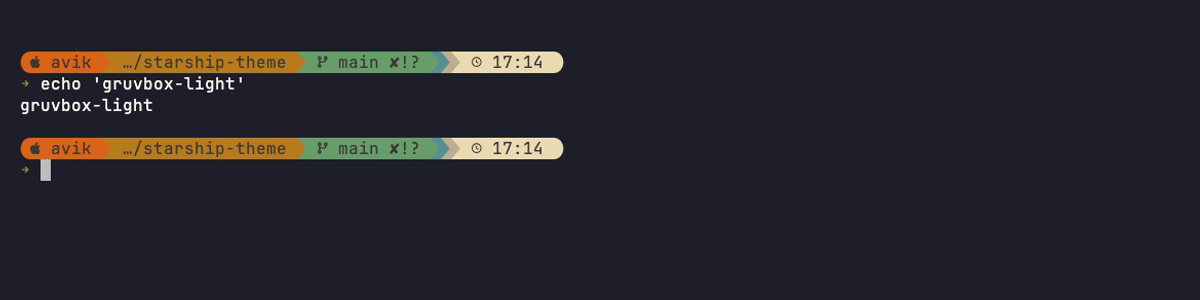
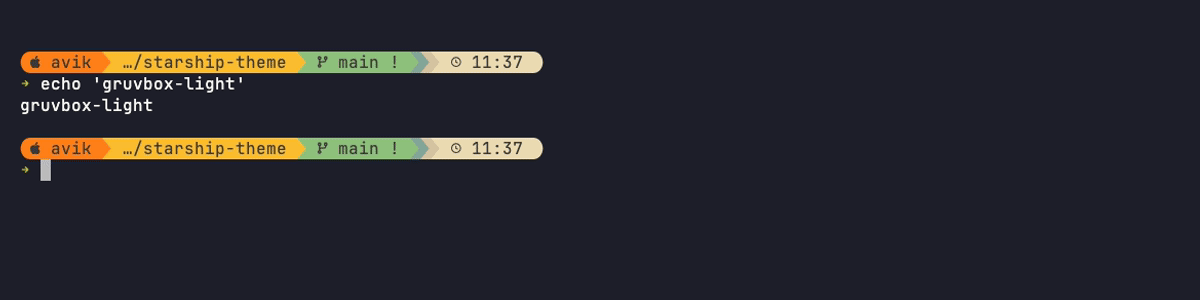
fix(gruvbox-light): use gruvbox's bright accent set for light chips
The light variant had gruvbox-DARK's accents, so ensure_contrast lifted them
into muddy mid-tones (blue #458588 -> #538f92, green #79740e -> #8d8933) and
the prompt glyph ended up a murky olive. A dark-text/light-chip theme needs the
bright accents to begin with, so they now pass contrast untouched.

Also make verify.py self-provision its /tmp fixture dirs -- wiping them during
cleanup turned the suite into a FileNotFoundError instead of a real signal.

Changed region(s): [[0.0, 0.15, 0.4933, 0.27], [0.0, 0.45, 0.4933, 0.54]]

diff --git a/tools/verify.py b/tools/verify.py
@@ -33,6 +33,35 @@ SCEN = {
 }
 
 
+def ensure_scenarios():
+    """Provision the fixture directories this verifier renders against.
+
+    Self-provisioning on purpose: relying on hand-made dirs under /tmp means a
+    routine cleanup silently breaks the suite with a FileNotFoundError instead
+    of a real failure.
+    """
+    def git(*args, cwd):
+        subprocess.run(["git", *args], cwd=cwd, capture_output=True)
+
+    for d in SCEN.values():
+        os.makedirs(d, exist_ok=True)
+
+    for key in ("dirty", "clean"):
+        d = SCEN[key]
+        if not os.path.isdir(os.path.join(d, ".git")):
+            git("init", "-q", cwd=d)
+            git("-c", "user.email=t@t", "-c", "user.name=t",
+                "commit", "--allow-empty", "-m", "init", "-q", cwd=d)
+
+    # `dirty` needs one untracked file so git_status has something to render;
+    # `clean` must stay pristine so git_status contributes nothing.
+    dirty_probe = os.path.join(SCEN["dirty"], "modified.txt")
+    if not os.path.exists(dirty_probe):
+        open(dirty_probe, "w").close()
+
+    open(os.path.join(SCEN["pyproj"], "main.py"), "w").close()
+
+
 def rgb(hexstr):
     h = hexstr.lstrip("#")
     return "%d;%d;%d" % (int(h[0:2], 16), int(h[2:4], 16), int(h[4:6], 16))
@@ -108,6 +137,7 @@ def apple_in_path_chip(out, color_path):
 
 
 def main():
+    ensure_scenarios()
     themes = sorted(f for f in os.listdir(os.path.join(ROOT, "themes"))
                     if f.endswith(".toml"))
     failures = []

diff --git a/tools/generate_variations.py b/tools/generate_variations.py
@@ -162,10 +162,14 @@ GRUVBOX_OVERRIDES = {
         "color_yellow": "#d8a657",
     },
     "gruvbox-light": {
-        "color_fg0": "#3c3836", "color_bg1": "#ebdbb2", "color_bg3": "#bdae93",
-        "color_blue": "#458588", "color_aqua": "#689d6a", "color_green": "#79740e",
-        "color_orange": "#d65d0e", "color_purple": "#b16286", "color_red": "#9d0006",
-        "color_yellow": "#b57614",
+        # Light chips + dark text, so the accents must be gruvbox's BRIGHT set.
+        # Using the dark accents here and letting ensure_contrast lift them
+        # produces muddy mid-tones (and a murky olive prompt glyph), because it
+        # starts from the wrong palette.
+        "color_fg0": "#3c3836", "color_bg1": "#ebdbb2", "color_bg3": "#d5c4a1",
+        "color_blue": "#83a598", "color_aqua": "#8ec07c", "color_green": "#b8bb26",
+        "color_orange": "#fe8019", "color_purple": "#d3869b", "color_red": "#fb4934",
+        "color_yellow": "#fabd2f",
     },
     "gruvbox-ocean": {
         "color_fg0": "#fbf1c7", "color_bg1": "#1d2021", "color_bg3": "#3c3836",
